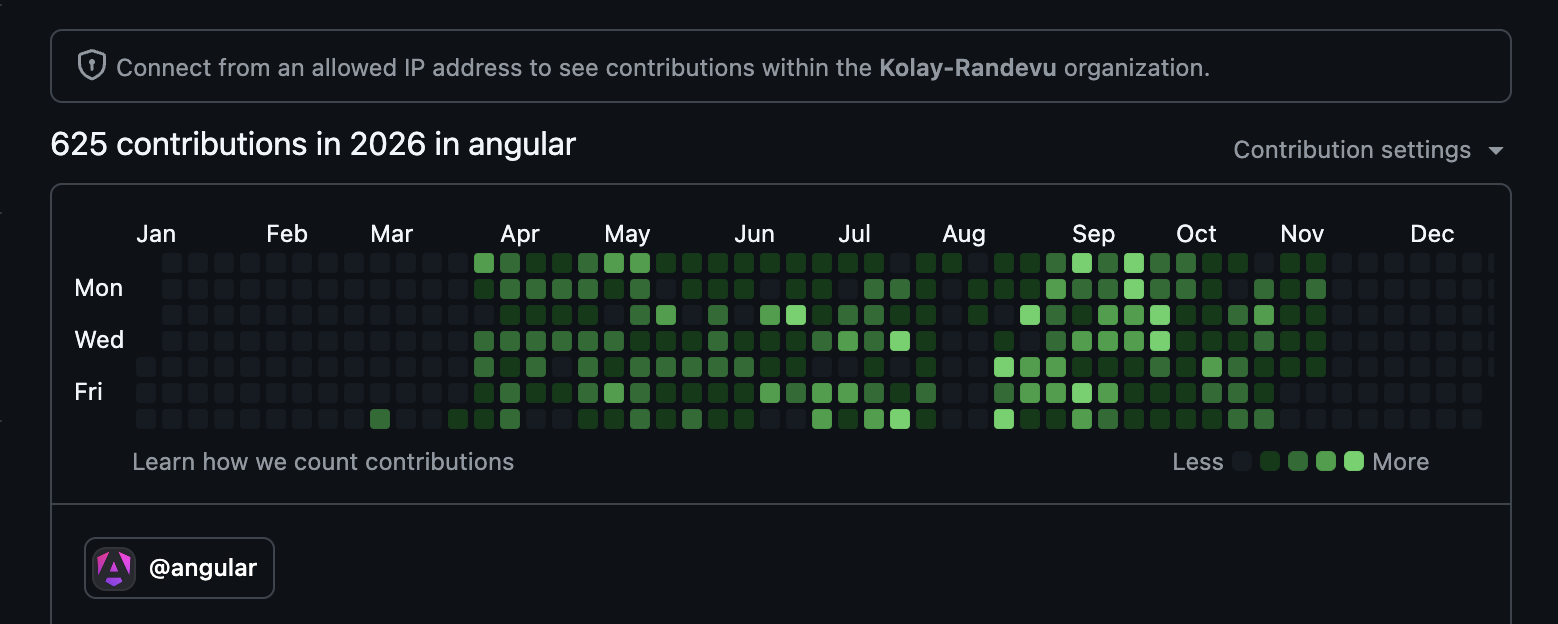
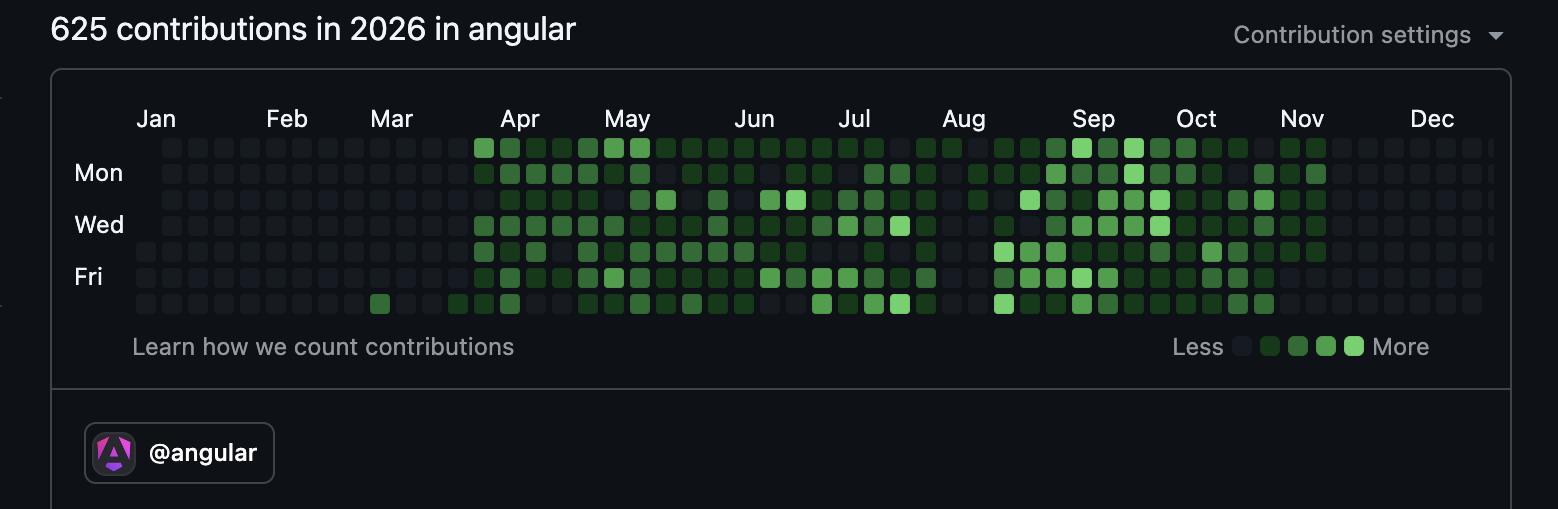
fix: crop the organization notice off the contributions screenshot

diff --git a/styles/index.css b/styles/index.css
@@ -1608,7 +1608,7 @@
 .first-label {
   position: absolute;
   left: 11%;
-  top: 40%;
+  top: 26.4%;
   transform: rotate(-4deg);
   font-family: 'Caveat', 'Bradley Hand', 'Segoe Print', cursive;
   font-size: 1.3rem;
@@ -1621,7 +1621,7 @@
 .first-circle {
   position: absolute;
   left: 24.4%;
-  top: 67.1%;
+  top: 59.7%;
   width: 4.8%;
   aspect-ratio: 1;
   transform: translate(-50%, -50%) rotate(-8deg);
@@ -1644,9 +1644,9 @@
 .first-arrow {
   position: absolute;
   left: 22.4%;
-  top: 51.9%;
+  top: 41.0%;
   width: 3.2%;
-  height: 9.6%;
+  height: 11.77%;
   overflow: visible;
 }
 
@@ -2167,18 +2167,18 @@ html.mouse-live .cards:has(.card:hover) .card.slidev-vclick-current:not(:hover) 
 
 .burnout-mark .first-label {
   left: 55%;
-  top: 15%;
+  top: -4.2%;
 }
 
 .burnout-mark .first-arrow {
   left: 59%;
-  top: 27%;
-  height: 29.45%;
+  top: 10.5%;
+  height: 36.1%;
 }
 
 .burnout-mark .first-circle {
   left: 61%;
-  top: 61%;
+  top: 52.2%;
   width: 8%;
 }
 
